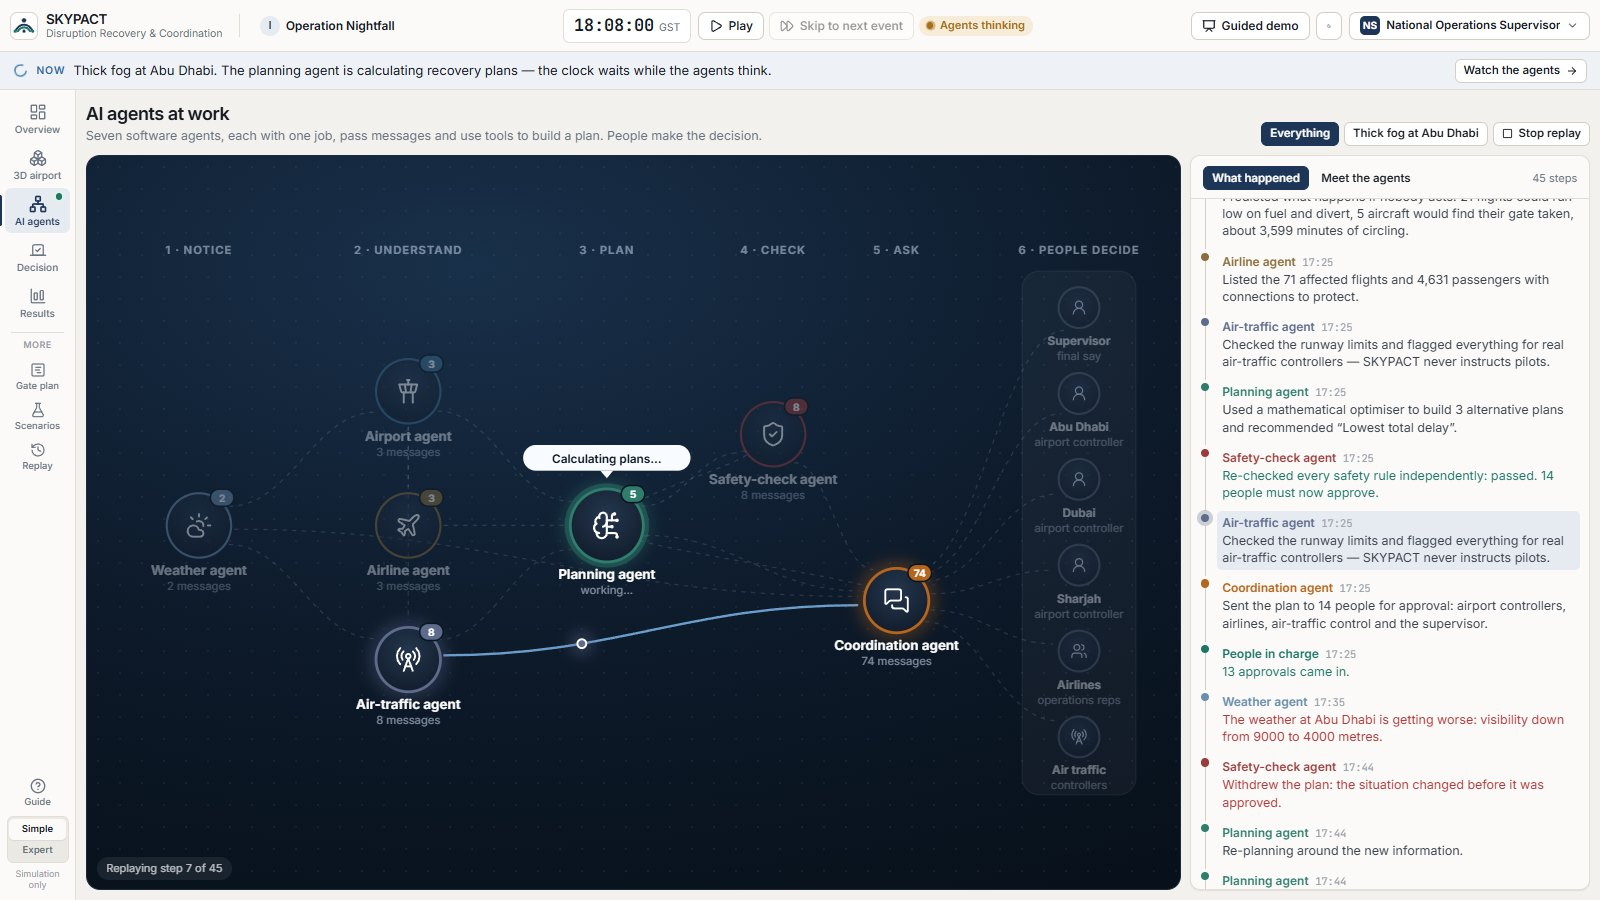
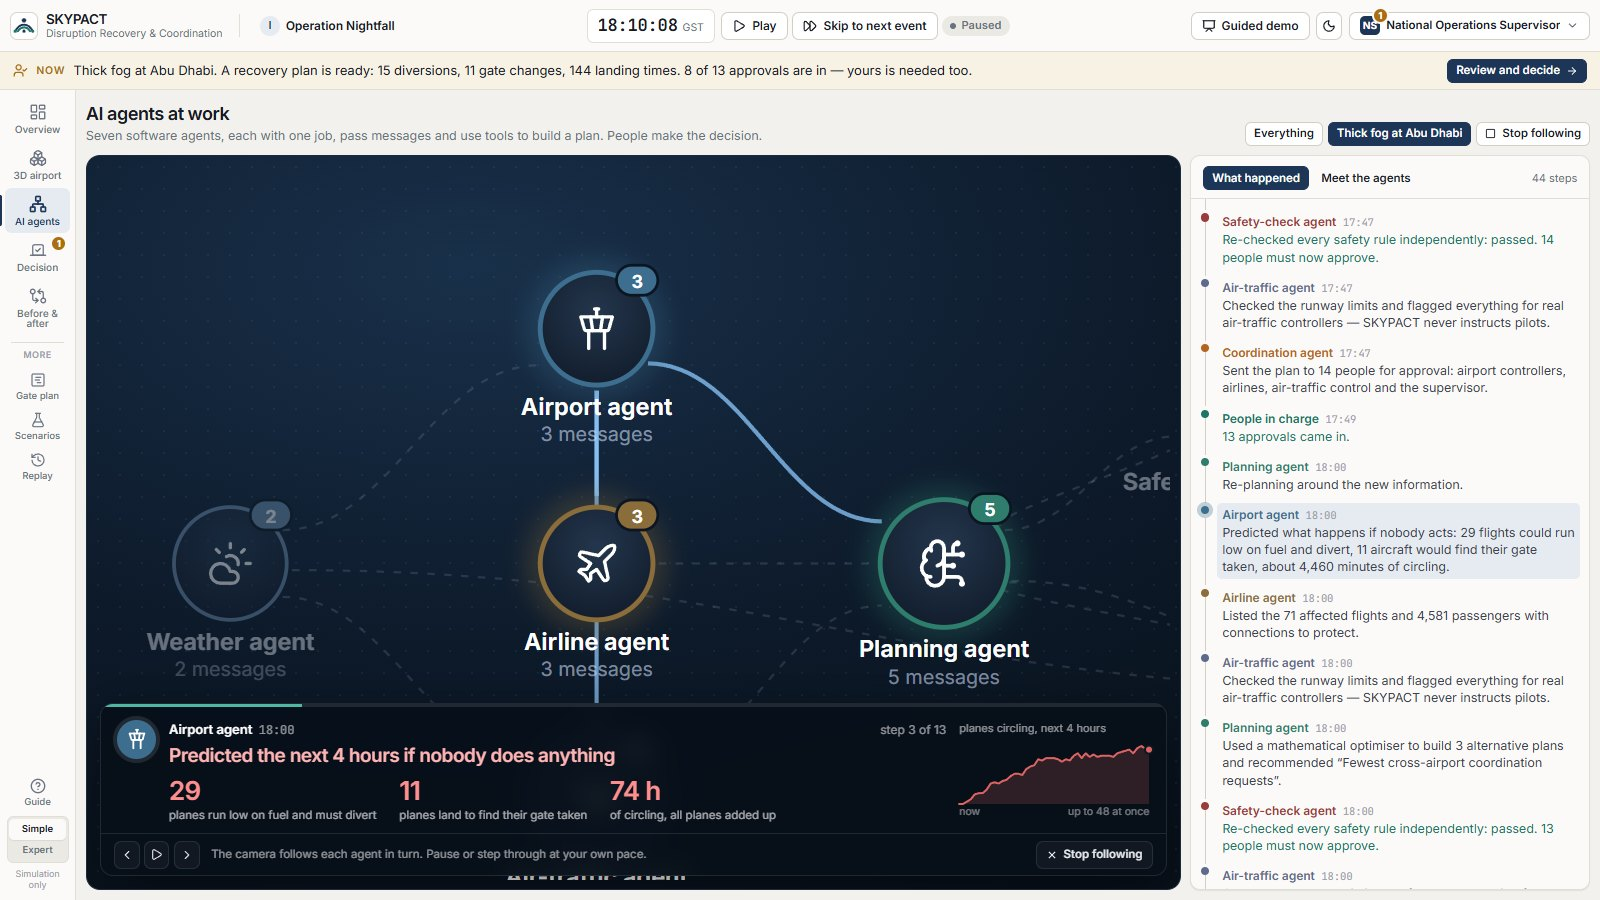
Describe following the agents and the one-flight story in the docs
The demo script follows the new eight steps (the agents' response is now watched live, then one
flight's before and after), and the README shows the follow camera and the new Before & after.

diff --git a/docs/DEMO_SCRIPT.md b/docs/DEMO_SCRIPT.md
@@ -7,18 +7,17 @@ in the top bar); use → / Space to advance, ← to go back, Esc to leave. Stay 
 | Time | Step (guided demo) | On screen | Say |
 |---|---|---|---|
 | 0:00 | 1 · Three airports, one network | Overview: national map, a card per airport, the Now bar (“all normal for now”). | “Abu Dhabi, Dubai and Sharjah are each other's alternates, less than 150 km apart. SKYPACT treats them as one network. Everything you see runs in this browser: a simulator, seven AI agents, an optimiser — and people who approve.” |
-| 0:20 | 2 · Thick fog at Abu Dhabi | 3D airport (AUH) from OpenStreetMap, close on the gates. The clock fast-forwards at 90× to 18:06: fog layer forms, stop bars and approach lights glow, LVP badge, arrival rate drops to 12/h. | “At six, radiation fog. Visibility below 550 metres, low-visibility procedures, half the arrival rate. Inbound flights start holding — and fuel is finite.” |
-| 0:45 | 3 · The AI agents get to work | AI agents: the scene shows each agent in the order it acts, messages flying between them and the story on the right; click the planning agent to show its card, or press **Replay the conversation**. | “The agents use real tools on the shared picture: a projection finds stand conflicts and fuel-diversion risk, airlines add connection constraints, and the Recovery agent solves a mixed-integer program in a web worker. Every message and tool call is inspectable.” |
-| 1:10 | 4 · Before & after, predicted | Before & after: on the left the evening if nobody acts (planes stacking up circling, low-fuel diversions, gate clashes), in the middle the plan, on the right the same evening with the plan; below, the chart of planes circling over four hours and what each agent did. Hover the chart; switch it to **Low-fuel diversions**. | “Same simulator, same moment, two futures. Without coordination the red line keeps climbing: aircraft circle until crews must divert on low fuel. With the plan, flights go to Sharjah or Dubai before anyone runs short. The safety-check agent has re-checked every rule — and nothing runs until people approve.” |
-| 1:35 | 5 · Sharjah knows something the system didn't | AI agents: Sharjah's controller said no (in red in the story), the fact is shared, the agents re-planned. | “Sharjah knows something the network doesn't: its ambulifts and wide-body handling teams are out. It rejects with the reason, the fact becomes shared, and the agents re-plan around it.” |
-| 2:00 | 6 · People decide | Decision: “Who must approve” — airports and airlines approved, air traffic noted. Click **Approve the plan**. | “No plan executes without the people responsible. ATC only acknowledges — SKYPACT never issues clearances. The final approval is the supervisor's.” |
-| 2:20 | 7 · The plan runs | 3D airport: violet plan arcs turn teal, aircraft taxi to their new stands, jet bridges dock. | “Committed decisions drive the operation: stand changes, landing slots, coordinated diversions. If anything changes, the plan is flagged stale and re-planned, not executed blindly.” |
-| 2:40 | 8 · Before & after, approved | Before & after again, now re-run from the moment of approval: the plan is marked approved by everyone, the cards show the change, the agent strip ends with “People in charge”. | “Measured, not claimed: both futures re-run from the moment of approval. Fewer emergency diversions, far less circling, no gate clashes — and even if each airport had rearranged its own gates, most of the diversions would remain. That gap is what coordination adds.” |
-| 2:55 | 9 · Every step can be replayed and audited | Replay + audit chain verified. | “Every input is recorded; the night replays exactly; the audit chain proves who approved what.” |
+| 0:20 | 2 · Thick fog at Abu Dhabi | 3D airport (AUH) from OpenStreetMap. The clock fast-forwards to 18:00 and stops as the fog forms: the fog banks roll in, stop bars and approach lights glow, the arrival rate drops to 12 an hour. | “At six, radiation fog. Abu Dhabi can land 12 planes an hour instead of 30. Inbound flights start circling — and fuel is finite. Now watch what the agents do.” |
+| 0:40 | 3 · Watch the agents handle it | AI agents, following: the camera zooms to each agent as it acts, a message flies to whoever hears about it, and the caption says what happened with the key numbers — the weather agent's warning, the airport agent's prediction if nobody acts (with the curve of planes circling), the flights and passengers hit, the runway limit, the optimiser's plan, the safety check, the approvals. The clock runs while the agents work; the step ends at “the final yes is yours”. | “Each agent has one job and one set of tools. The prediction is a real simulation four hours ahead; the plan comes from a mixed-integer optimiser in a web worker; a separate agent re-checks every rule. Nothing runs until people agree.” |
+| 1:35 | 4 · Before & after, predicted | Before & after: first one real flight on two maps — without SKYPACT it reaches Abu Dhabi in the fog, circles and diverts to Dubai on low fuel; with the plan it is sent to Sharjah early and lands at a reserved gate. Below: the evening if nobody acts, the plan, the same evening with the plan, and the chart of both futures. Hover the chart; switch it to **Low-fuel diversions**. | “Same simulator, same moment, two futures. Take this Frankfurt flight with 271 passengers… Across every flight, the red line keeps climbing without coordination; with the plan, flights go to Sharjah or Dubai before anyone runs short.” |
+| 2:00 | 5 · People decide | Decision: who must approve — airports and airlines approved, air traffic noted. The step text points at the earlier versions Sharjah turned down. Click **Approve the plan**. | “No plan executes without the people responsible. Earlier this evening two plans were turned down because Sharjah's wheelchair lifts and large-aircraft crews were out of service — the agents re-planned around that. ATC only acknowledges; SKYPACT never issues clearances. The final approval is the supervisor's.” |
+| 2:20 | 6 · The plan runs | Overview: teal arcs carry the approved flights from Abu Dhabi to Sharjah and Dubai (“9 flights sent to Sharjah · approved”). | “Committed decisions drive the operation: coordinated diversions, landing times, gate changes. If anything changes, the plan is flagged stale and re-planned, not executed blindly.” |
+| 2:40 | 7 · Before & after, approved | Before & after again, re-run from the moment of approval: the same flight, the cards with the change, the agent strip ending with “People in charge”. | “Measured, not claimed: both futures re-run from the moment of approval. Far fewer emergency diversions, far less circling, no gate clashes — and even if each airport had rearranged its own gates, most of the diversions would remain. That gap is what coordination adds.” |
+| 2:55 | 8 · Every step can be replayed and audited | Replay + audit chain verified. | “Every input is recorded; the night replays exactly; the audit chain proves who approved what.” |
 
 ## Backup moves
 
-* If the network is slow to produce a proposal, stay on step 3: the working agent pulses and says what it is doing.
+* If the network is slow to produce a proposal, stay on step 3: the camera waits for the next agent and the working agent says what it is doing. Use the caption's ◀ ❚❚ ▶ to pause or step through.
   Clicking a step of the story opens the recorded message (parameters, result, duration).
 * For a technical audience, switch to **Expert** (bottom of the navigation): the full message and tool-call log, the
   swim-lane sequence, every decision, METARs and optimiser statistics come back.

diff --git a/README.md b/README.md
@@ -24,7 +24,7 @@ data and original Blender models.
 | | |
 |---|---|
 | ![Terminal A, Zayed International](docs/images/twin-auh-terminal-a.jpg) | ![Sharjah International terminal](docs/images/twin-shj-terminal.jpg) |
-| ![Dubai International with a runway closed and diversions arriving](docs/images/twin-dxb-runway-closure.jpg) | ![AI agents: replaying the conversation between the agents](docs/images/agents-presentation.jpg) |
+| ![Dubai International with a runway closed and diversions arriving](docs/images/twin-dxb-runway-closure.jpg) | ![AI agents: the camera follows each agent in turn; here the airport agent predicts the next four hours if nobody acts](docs/images/agents-presentation.jpg) |
 | ![Decision: the problem, the plan, what it should achieve and who must approve](docs/images/workbench.jpg) | ![Before & after: the evening if nobody acts, the plan, and the same evening with the plan](docs/images/evidence.jpg) |
 
 ![Overview: the three airports, live traffic, what is wrong and what needs a decision](docs/images/command.jpg)
@@ -76,9 +76,9 @@ mode (switch at the bottom of the navigation) brings back every number, log and 
 |---|---|
 | **Overview** | National map with live traffic, circling aircraft, diversion flows and what is wrong right now; a card per airport (landings per hour, planes on the way, aircraft circling), the plan that needs a decision and what the agents did. Expert adds METARs, the full agent feed and the operations timeline. |
 | **3D airport** | Each airport in 3D from OpenStreetMap: liveried aircraft moving on the simulator's trajectories, docking jet bridges and turnaround vehicles, lighting from the real sun position, fog from the reported visibility, closures, gate status, taxi routes and the plan previewed in violet. Click any aircraft or gate. |
-| **AI agents** | An interactive scene of the seven agents and the people who decide, in the order they act: messages fly along the links, the working agent says what it is doing, each person shows their decision. Click an agent for its job, its limits and everything it did; hover a step of the story to light up the agents involved; replay the whole conversation. Expert adds the swim-lane sequence and the log of every message and tool call (including the model sent to HiGHS). |
+| **AI agents** | An interactive scene of the seven agents and the people who decide, in the order they act: messages fly along the links, the working agent says what it is doing, each person shows their decision. Click an agent for its job, its limits and everything it did; hover a step of the story to light up the agents involved; or **follow the agents**: a camera zooms to each agent in turn as it acts, with a caption saying what it found and the numbers that matter, and keeps up with the agents while they work. Expert adds the swim-lane sequence and the log of every message and tool call (including the model sent to HiGHS). |
 | **Decision** | The recovery plan in plain words — the problem if nobody acts, what the plan changes, what it should achieve against doing nothing, why it was chosen — and who has approved; your Approve / Say no buttons first. Expert adds candidates vs. baselines, every decision, validation detail, versions and the audit excerpt. |
-| **Before & after** | The same evening simulated twice from the same moment: **without SKYPACT** (if nobody acts: aircraft stack up circling, crews divert on low fuel, gates clash), **the plan** the agents built and who approved it, and **with SKYPACT**, each with big numbers and the change. A chart shows both futures unfolding over four hours (planes circling, low-fuel diversions, passenger delay) with a crosshair readout and a table view, and a strip shows what each agent contributed. It works as soon as the agents have predicted the impact, while the plan awaits approval, and after approval (re-run from that moment). **Expert** turns it into the evidence view: the third baseline (each airport acting alone), optimiser statistics, provenance and the JSON evidence export. |
+| **Before & after** | Opens with **one flight, two evenings**: a real flight of the evening on two maps, circling in the fog and diverting on low fuel without SKYPACT, sent early to another airport with a reserved gate with it. Then the same evening simulated twice from the same moment: **without SKYPACT** (if nobody acts: aircraft stack up circling, crews divert on low fuel, gates clash), **the plan** the agents built and who approved it, and **with SKYPACT**, each with big numbers and the change. A chart shows both futures unfolding over four hours (planes circling, low-fuel diversions, passenger delay) with a crosshair readout and a table view, and a strip shows what each agent contributed. It works as soon as the agents have predicted the impact, while the plan awaits approval, and after approval (re-run from that moment). **Expert** turns it into the evidence view: the third baseline (each airport acting alone), optimiser statistics, provenance and the JSON evidence export. |
 | **Gate plan** | Per-gate timeline: planned, actual, estimated and proposed occupancy, conflicts and technical holds. |
 | **Scenarios** | Launch scenarios A–I or Nightfall, change the seed, or inject incidents (fog, storm, runway closure, blocked stand, priority arrival, diversion influx, resource outage, accessibility needs) — alone or simultaneously. |
 | **Replay** | Deterministic replay of the whole run from recorded inputs; re-simulate to any time. |
